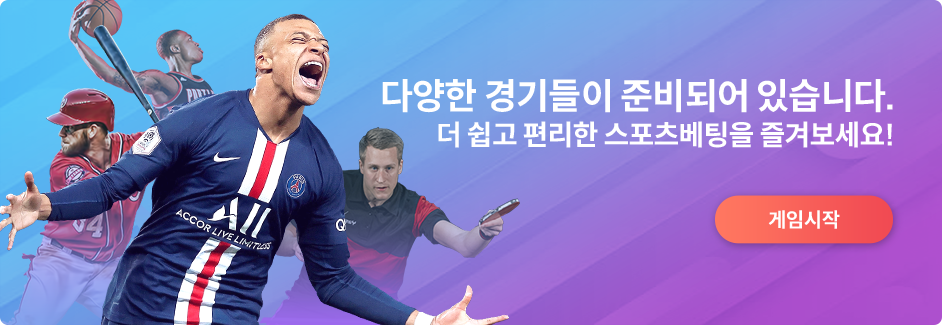
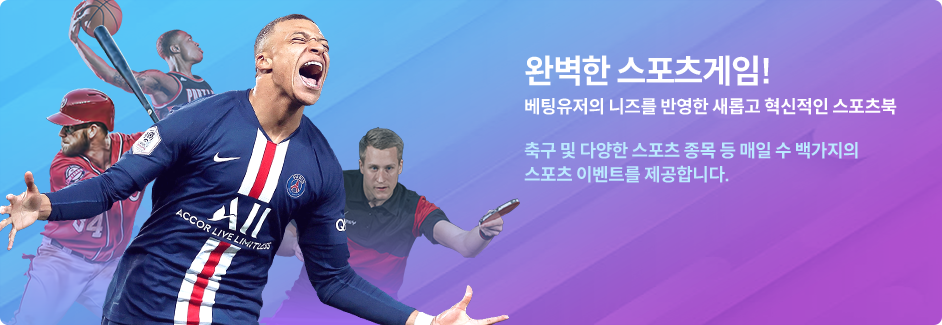
.

Changed region(s): [[0.4002, 0.1538, 0.9544, 0.5846], [0.7389, 0.5846, 0.9544, 0.7692]]

diff --git a/src/components/mainPage/Carousel.jsx b/src/components/mainPage/Carousel.jsx
@@ -1,8 +1,9 @@
-import React, { useEffect, useState } from 'react';
-import visual1 from '../../images/carousel/visual.png';
-import { useHistory } from 'react-router-dom';
+import React, { useEffect, useState } from "react";
+import visual1 from "../../images/carousel/visual.png";
+import visual2 from "../../images/carousel/visual2.png";
+import { useHistory } from "react-router-dom";
 
-const images = [visual1, visual1, visual1, visual1, visual1];
+const images = [visual1, visual2, visual1, visual1, visual1];
 // images must be an array of urls , if using Next JS this could something like
 // const images = ['/img/img1.png', '/img/img2.png', '/img/img3.png']
 // images must be an array of urls , if using Next JS this could something like
@@ -19,25 +20,21 @@ const Carousel = () => {
   // as well as change its position and content.
 
   const positionIndicator = (
-    <div className='absolute z-10 w-full flex justify-start bottom-10px left-10px space-x-3px'>
+    <div className="absolute z-10 w-full flex justify-start bottom-10px left-10px space-x-3px">
       {images.map((img, i) => (
         <button
           key={i}
           className={`${
-            currentImage === i
-              ? 'bg-white rounded-5px w-29px h-12px'
-              : 'bg-white opacity-30 rounded-full w-12px h-12px'
+            currentImage === i ? "bg-white rounded-5px w-29px h-12px" : "bg-white opacity-30 rounded-full w-12px h-12px"
           } p-3px`}
           onClick={() => setCurrentImage(i)}
         >
           {currentImage === i && (
             <div
               style={{
-                backgroundColor: currentImage === i ? 'white' : 'transparent',
+                backgroundColor: currentImage === i ? "white" : "transparent",
               }}
-              className={`w-full h-full ${
-                currentImage === i ? 'bg-white' : 'bg-transparent'
-              }`}
+              className={`w-full h-full ${currentImage === i ? "bg-white" : "bg-transparent"}`}
             />
           )}
         </button>
@@ -49,22 +46,39 @@ const Carousel = () => {
     <>
       {images.map((img, i) => (
         <img
-          onClick={() =>
-            currentImage === i
-              ? history.push('/live-casino')
-              : history.push('/bet-combination')
-          }
+          onClick={() => (currentImage === i ? history.push("/live-casino") : history.push("/bet-combination"))}
           onMouseEnter={() => setHover(true)}
           onMouseLeave={() => setHover(false)}
           key={i}
           src={images[i]}
           className={`${
-            currentImage === i ? 'opacity-100' : 'opacity-0'
+            currentImage === i ? "opacity-100" : "opacity-0"
           } absolute w-full h-full object-none transition duration-300 cursor-pointer rounded-8px`}
-          alt={'banner_images'}
+          alt={"banner_images"}
         />
       ))}
     </>
+  );
+
+  const gameStartButton = (
+    <div
+      style={{
+        width: "134px",
+        height: "35px",
+        background: "linear-gradient(to right, #ff7760, #f14a53)",
+        boxShadow: "2px 2px 10px 0px rgba(0, 0, 0, 0.3)",
+        bottom: "47px",
+        right: "283px",
+      }}
+      className="absolute bottom-0 right-0 rounded-full cursor-pointer filter hover:brightness-125"
+    >
+      <p
+        style={{ fontSize: "15px", marginLeft: "39px", marginTop: "11px" }}
+        className="text-white font-spoqaBold flex items-center h-15px"
+      >
+        게임시작
+      </p>
+    </div>
   );
 
   useEffect(() => {
@@ -86,18 +100,16 @@ const Carousel = () => {
   return (
     <div
       style={{
-        height: '325px',
-        width: '942px',
-        boxShadow: '0px 2px 10px 0px rgba(0, 0, 0, 0.4)',
+        height: "325px",
+        width: "942px",
+        boxShadow: "0px 2px 10px 0px rgba(0, 0, 0, 0.4)",
       }}
-      className='flex flex-shrink-0 rounded-8px'
+      className="flex flex-shrink-0 rounded-8px"
     >
-      <div
-        style={{ height: '325px', width: '100%' }}
-        className='relative flex items-center justify-center'
-      >
+      <div style={{ height: "325px", width: "100%" }} className="relative flex items-center justify-center">
         {imagesDisplay}
         {positionIndicator}
+        {gameStartButton}
       </div>
     </div>
   );
